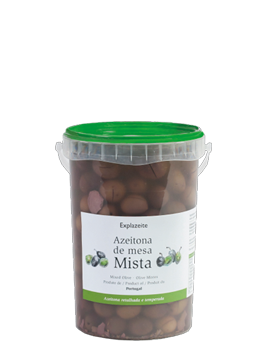
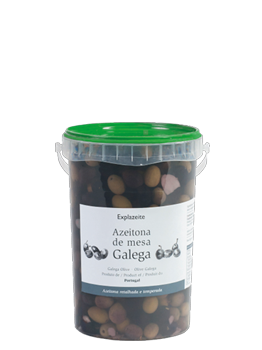
pre deploy bugfix: wrong images, swtched labels..

Changed region(s): [[0.2137, 0.3429, 0.8244, 0.9714]]

diff --git a/src/components/Footer.js b/src/components/Footer.js
@@ -6,43 +6,45 @@ const Footer= () => {
   return (
 
     <div className="footer__div">
-      <Row className="no-margin">
-        <Col xs="12" sm="8" md="8">
-          <div className="footer__div-left no-padding">
-            <span className="footer_regular">
-              <FormattedMessage id="footer.feedback" />
-            </span>
-            <br/>
-            <span className="footer_light">
-              <FormattedMessage id="footer.contact" />
-            </span>
-          </div>
-        </Col>
-
-        <Col xs="12" sm="4" md="4">
-          <div className="footer__div-right no-padding">
-            <div className="float-left">
+      <div className="container no-padding">
+        <Row className="no-margin">
+          <Col xs="12" sm="8" md="8">
+            <div className="footer__div-left no-padding">
               <span className="footer_regular">
-                <FormattedMessage id="footer.follow" />
-              </span><br/>
-              <a href="https://www.facebook.com/explazeite/" target="_blank">
-                <img className="footer_img" src="/public/images/footer/footer_face.png" height="35px" />
-              </a>
-              <a href="https://www.instagram.com/explazeite/" target="_blank">
-                <img className="footer_img" src="/public/images/footer/footer_insta.png" height="35px" />
-              </a>
-            </div>
-            <div className="float_right right">
-              <img className="/public/footer_img" src="/public/images/footer/footer_selo.png" width="80px"/>
-            </div>
-            <div className="mt20 no-padding">
-              <span className="footer_copyright">
-                <FormattedMessage id="footer.copyright" />
+                <FormattedMessage id="footer.feedback" />
+              </span>
+              <br/>
+              <span className="footer_light">
+                <FormattedMessage id="footer.contact" />
               </span>
             </div>
-          </div>
-        </Col>
-      </Row>
+          </Col>
+
+          <Col xs="12" sm="4" md="4">
+            <div className="footer__div-right no-padding">
+              <div className="float-left">
+                <span className="footer_regular">
+                  <FormattedMessage id="footer.follow" />
+                </span><br/>
+                <a href="https://www.facebook.com/explazeite/" target="_blank">
+                  <img className="footer_img" src="/public/images/footer/footer_face.png" height="35px" />
+                </a>
+                <a href="https://www.instagram.com/explazeite/" target="_blank">
+                  <img className="footer_img" src="/public/images/footer/footer_insta.png" height="35px" />
+                </a>
+              </div>
+              <div className="float_right right">
+                <img className="/public/footer_img" src="/public/images/footer/footer_selo.png" width="80px"/>
+              </div>
+              <div className="mt20 no-padding">
+                <span className="footer_copyright">
+                  <FormattedMessage id="footer.copyright" />
+                </span>
+              </div>
+            </div>
+          </Col>
+        </Row>
+      </div>
     </div>
   )
 }

diff --git a/src/components/History.js b/src/components/History.js
@@ -30,7 +30,6 @@ const History = () => {
         </VerticalTimelineElement>
         <VerticalTimelineElement
           className="vertical-timeline-element--work no-margin"
-          iconStyle={{ background: '#BC933A', color: '#fff'}}
         >
           <h3 className="vertical-timeline-element-title left">
             <FormattedMessage id="history.item2.title" />
@@ -43,7 +42,6 @@ const History = () => {
         </VerticalTimelineElement>
         <VerticalTimelineElement
           className="vertical-timeline-element--work no-margin"
-          iconStyle={{ background: '#BC933A', color: '#fff' }}
         >
           <h3 className="vertical-timeline-element-title right">
             <FormattedMessage id="history.item3.title" />
@@ -71,7 +69,6 @@ const History = () => {
         </VerticalTimelineElement>
         <VerticalTimelineElement
           className="vertical-timeline-element--work no-margin"
-          iconStyle={{ background: '#BC933A', color: '#fff' }}
         >
           <h3 className="vertical-timeline-element-title right">
             <FormattedMessage id="history.item5.title" />
@@ -110,7 +107,6 @@ const History = () => {
         </VerticalTimelineElement>
         <VerticalTimelineElement
           className="vertical-timeline-element--work no-margin"
-          iconStyle={{ background: '#BC933A', color: '#fff' }}
         >
           <h3 className="vertical-timeline-element-title left">
             <FormattedMessage id="history.item8.title" />
@@ -147,7 +143,6 @@ const History = () => {
         </VerticalTimelineElement>
         <VerticalTimelineElement
           className="vertical-timeline-element--work no-margin"
-          iconStyle={{ background: '#BC933A', color: '#fff' }}
         >
           <h3 className="vertical-timeline-element-title right">
             <FormattedMessage id="history.item11.title" />
@@ -174,7 +169,6 @@ const History = () => {
         </VerticalTimelineElement>
         <VerticalTimelineElement
           className="vertical-timeline-element--work no-margin"
-          iconStyle={{ background: '#BC933A', color: '#fff' }}
         >
           <h3 className="vertical-timeline-element-title right">
             <FormattedMessage id="history.item13.title" />
@@ -198,7 +192,7 @@ const History = () => {
         <VerticalTimelineElement
           className="vertical-timeline-element--work no-margin"
           iconStyle={{ background: '#BC933A', color: '#fff' }}
-          icon="2015"
+          icon="2017"
         >
           <h3 className="vertical-timeline-element-title right">
             <FormattedMessage id="history.item15.title" />

diff --git a/src/components/Cellar.js b/src/components/Cellar.js
@@ -4,18 +4,20 @@ import { FormattedMessage } from 'react-intl';
 
 const items = [
   {
-    src: '/public/images/lagar/lagar_1.png',
+    src: '/public/images/adega/adega_1.png',
     altText: '',
     caption: ''
   },
   {
-    src: '/public/images/lagar/lagar_2.png',
+    src: '/public/images/adega/adega_2.png',
   },
   {
-    src: '/public/images/lagar/lagar_3.png',
+    src: '/public/images/adega/adega_3.png',
+  },
+  {
+    src: '/public/images/adega/adega_4.png',
   }
 ];
-
 
 const Cellar = () => {
   return (

diff --git a/src/components/Mill.js b/src/components/Mill.js
@@ -4,21 +4,17 @@ import { FormattedMessage } from 'react-intl';
 
 const items = [
   {
-    src: '/public/images/adega/adega_1.png',
+    src: '/public/images/lagar/lagar_1.png',
     altText: '',
     caption: ''
   },
   {
-    src: '/public/images/adega/adega_2.png',
+    src: '/public/images/lagar/lagar_2.png',
   },
   {
-    src: '/public/images/adega/adega_3.png',
-  },
-  {
-    src: '/public/images/adega/adega_4.png',
+    src: '/public/images/lagar/lagar_3.png',
   }
 ];
-
 
 const Mill = () => {
   return (

diff --git a/src/components/oliveOil.js b/src/components/oliveOil.js
@@ -70,7 +70,7 @@ const products = [
     imgPP: '/public/images/produtos/azeite/imagens_popup/p_azeite-6.png',
     label: 'products.oliveOil.p6.label',
     btnLabel: 'products.oliveOil.p6.button.label',
-    popupTitle: 'products.oliveOil.p66.popup.title',
+    popupTitle: 'products.oliveOil.p6.popup.title',
     popupSubtitle: 'products.oliveOil.p6.popup.subtitle',
     popupP1: 'products.oliveOil.p6.popup.p1',
     popupP2: 'products.oliveOil.p6.popup.p2',

diff --git a/src/scss/base/_base.scss b/src/scss/base/_base.scss
@@ -47,6 +47,14 @@ a {
   margin-top: 20px;
 }
 
+.pl0 {
+    padding-left: 0;
+}
+
+.pr0 {
+    padding-right: 0;
+}
+
 .pr15 {
   padding-right: 15px;
 }
